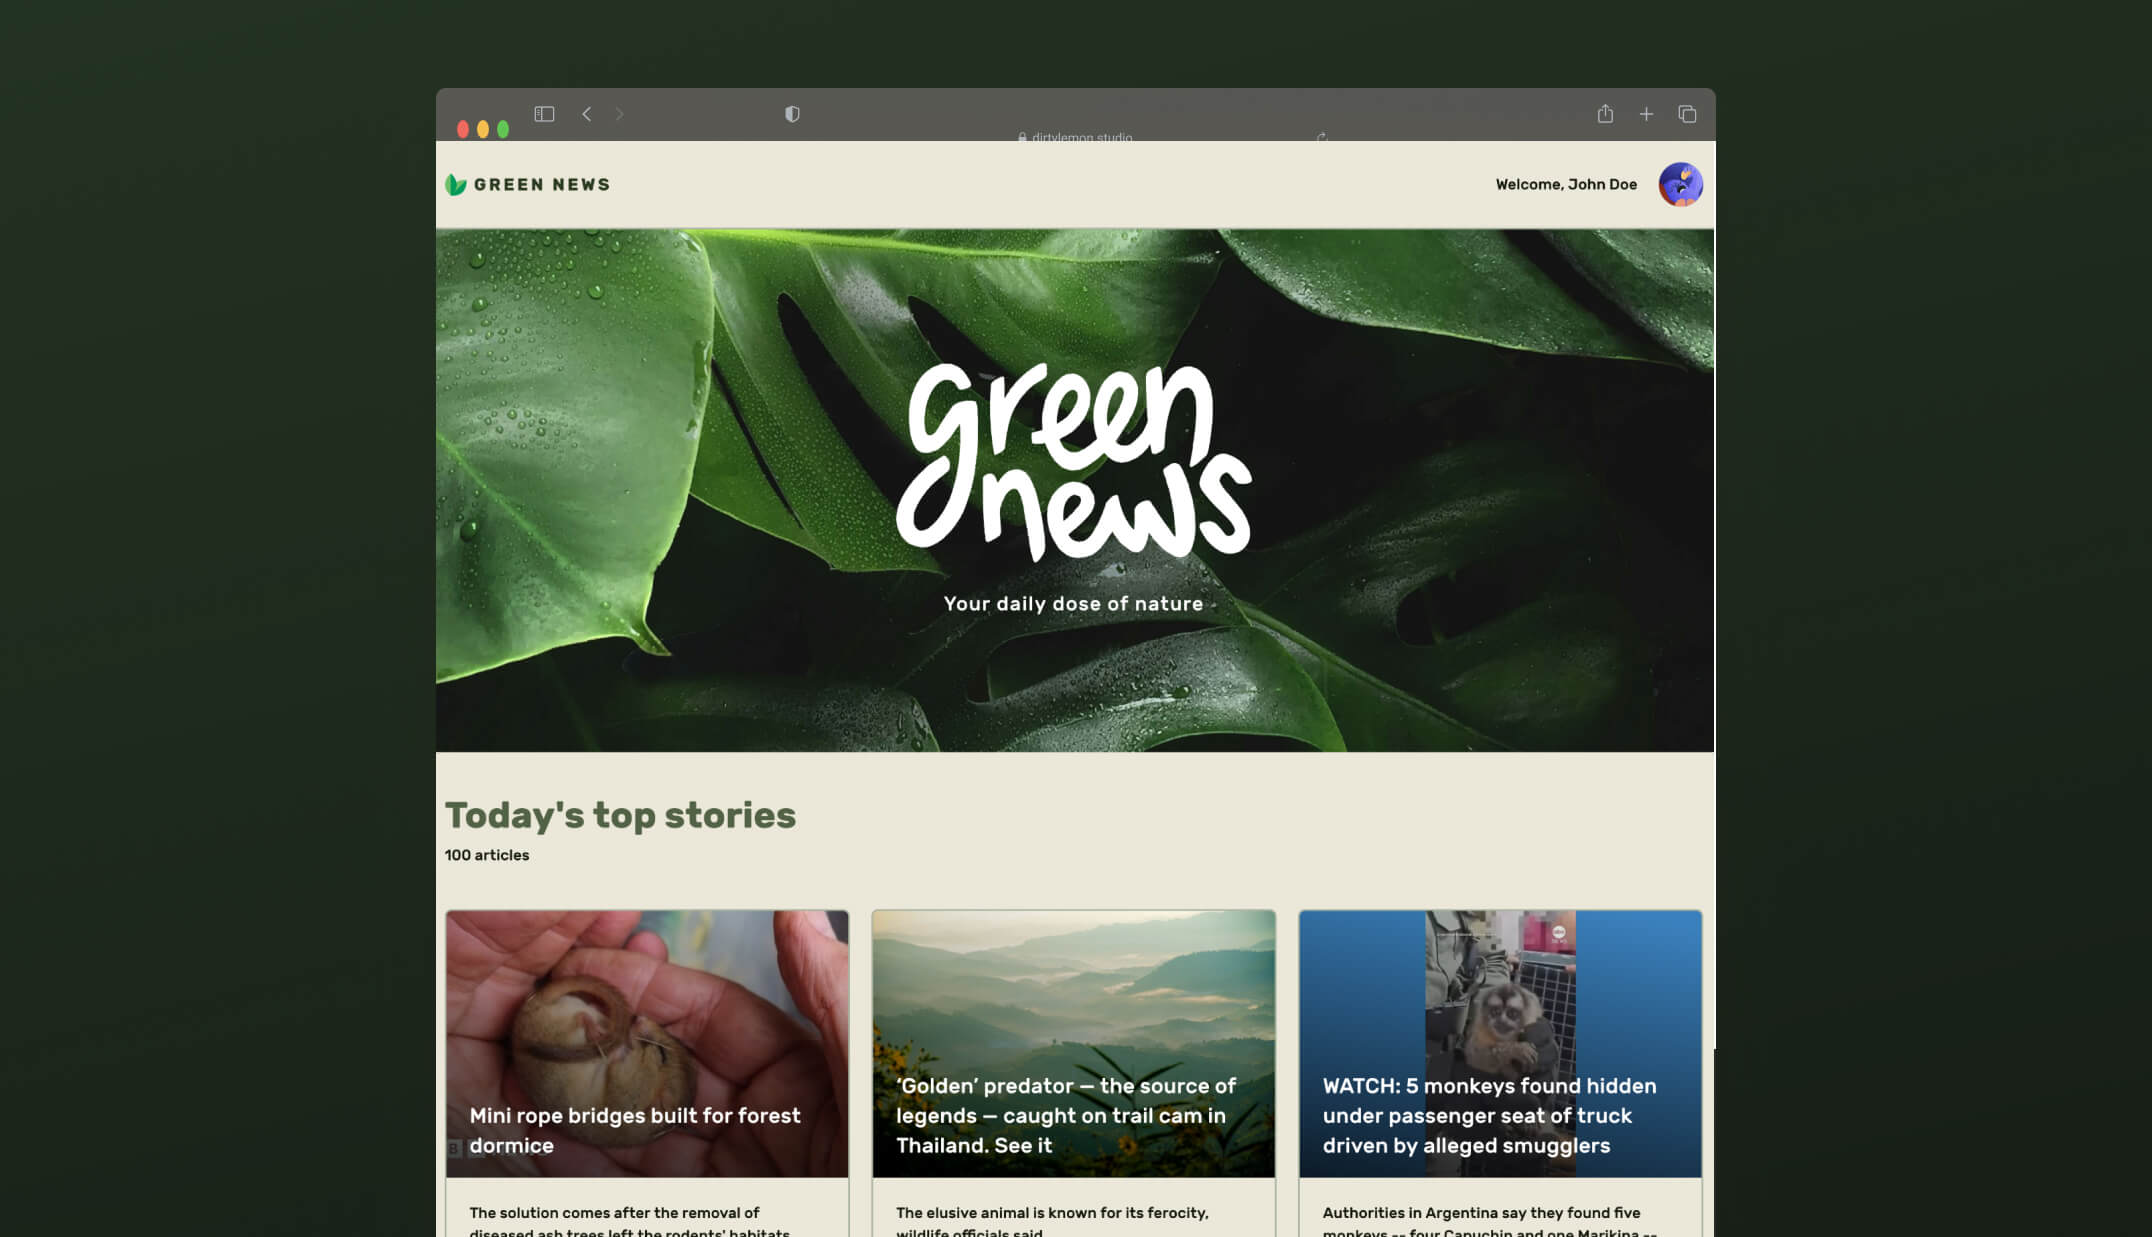
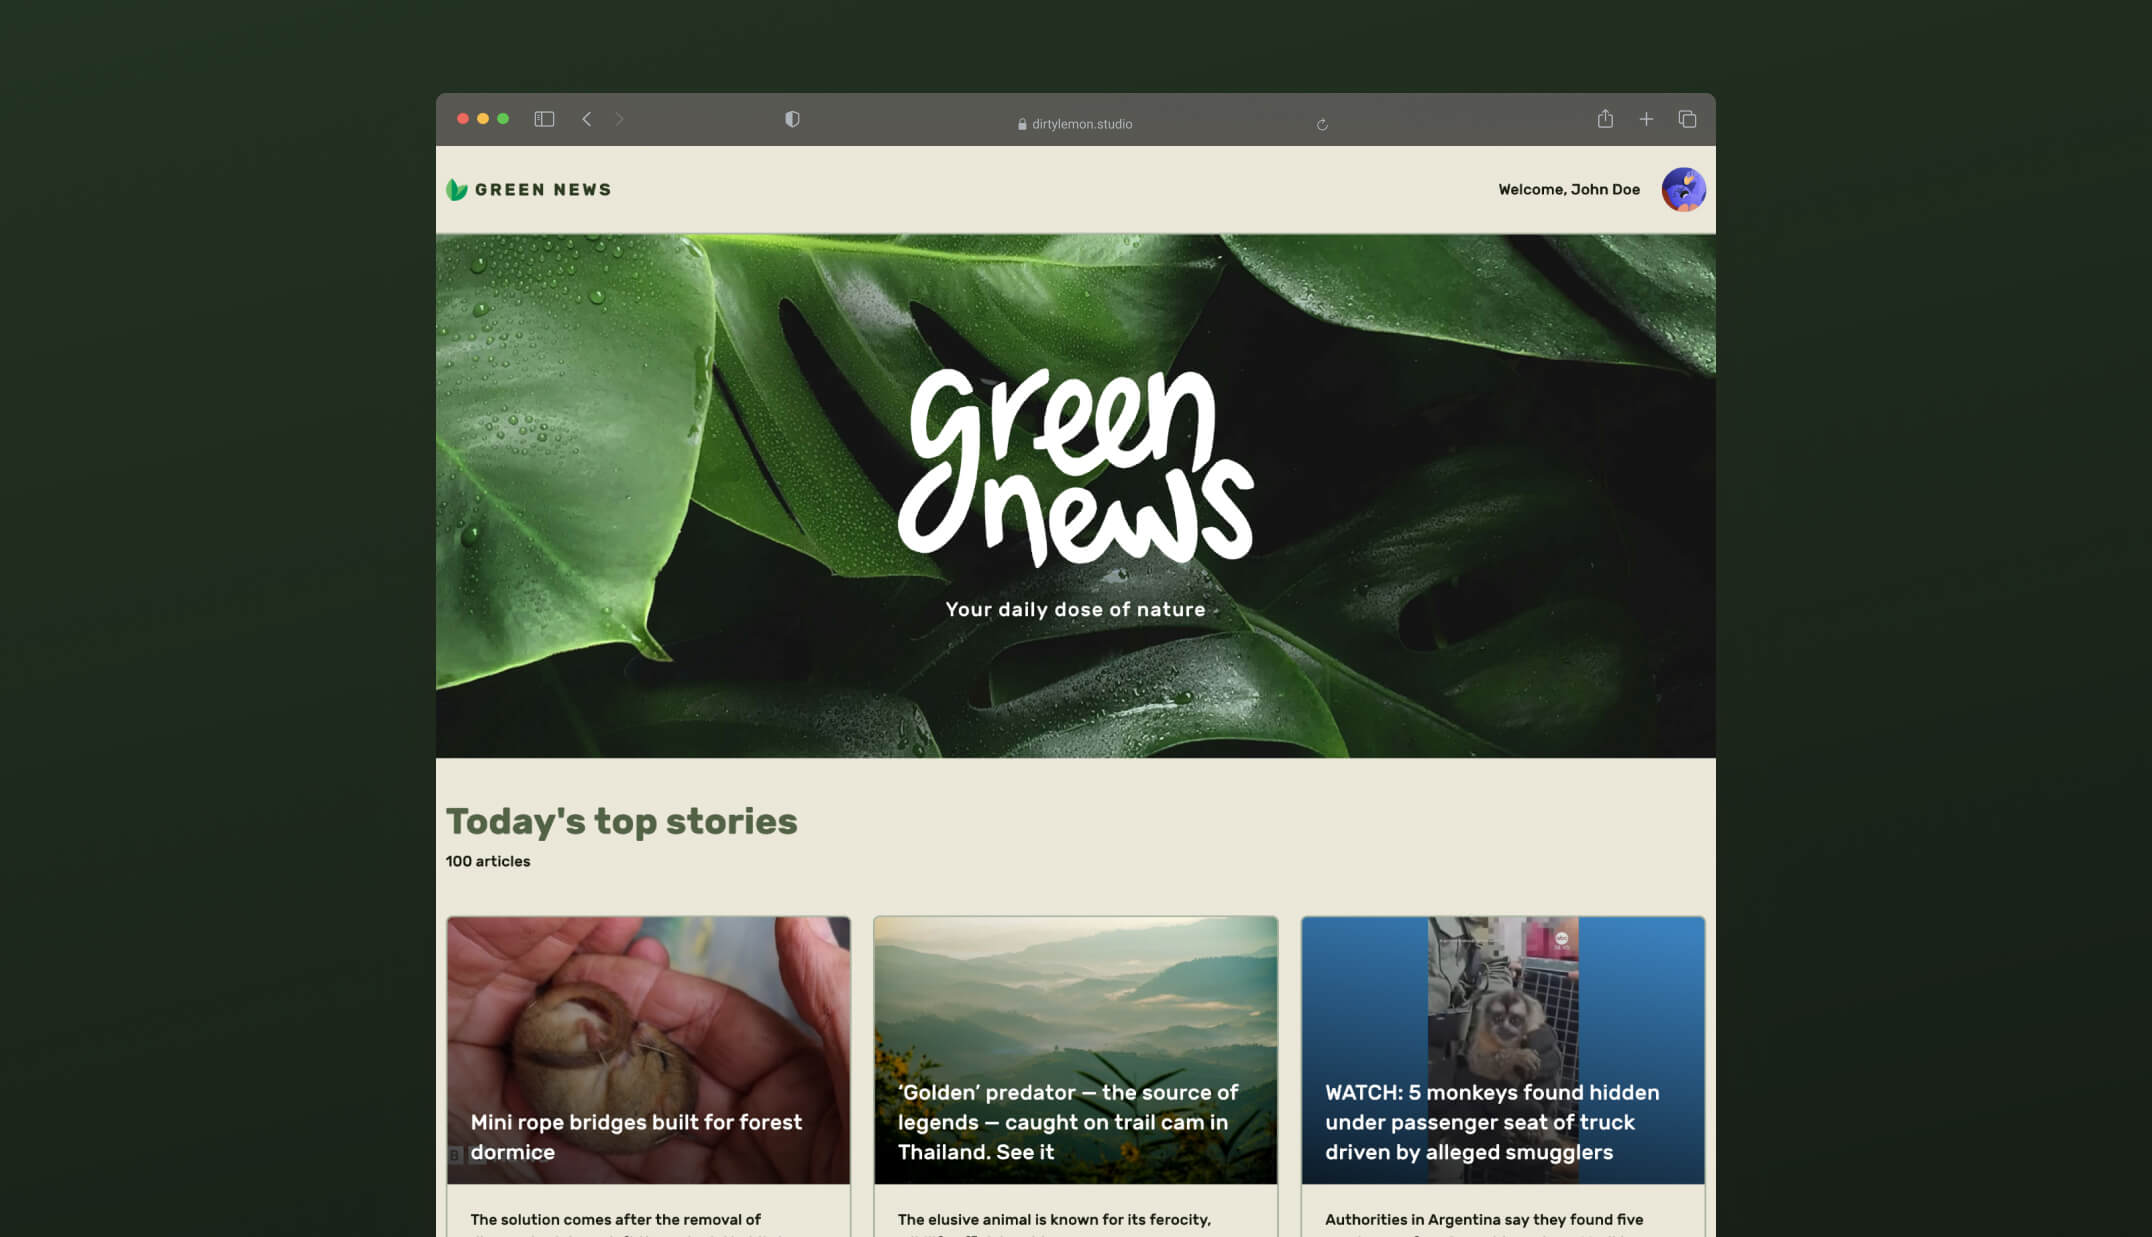
Update README.md

diff --git a/README.md b/README.md
@@ -2,6 +2,8 @@
 
 [🌿 Preview](https://green-news577328.netlify.app/)
 
+![Green News | Your daily dose of nature](https://github.com/laurasinclair/green-news/blob/5726a8a9a64e5ea941685c22010abd0ab1eaf989/public/green-news_screenshot.jpg)
+
 
 ## Description
 Green News is an innovative application that provides the latest news and updates on environmental issues, sustainability, and green initiatives from around the world. By combining a modern user interface with powerful technology, Green News aims to keep its users informed and engaged on topics related to the environment.
